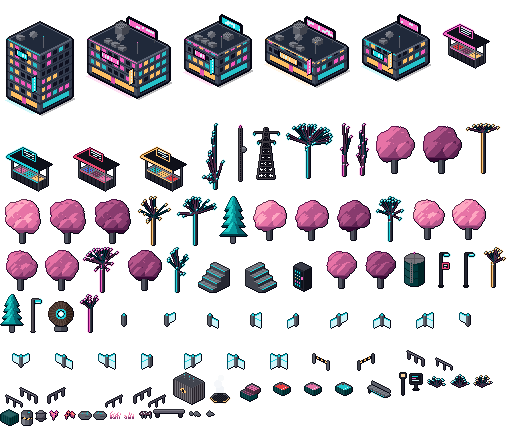
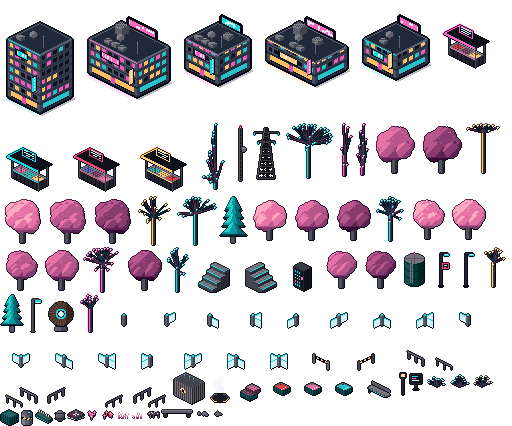
Neon city: connector chips for rocks, in colour (pick); the theme is complete
Parity: cottage ground 0 x 4, shadows 0, landmarks 0; Neon city props match except the chimney smoke,
which the browser animates separately.

Changed region(s): [[0.0625, 0.946, 0.4375, 1.0]]

diff --git a/art/cyber_props.py b/art/cyber_props.py
@@ -449,25 +449,42 @@ def scrap(seed):
     return tight(s).outline()
 
 
-def connector(seed):
-    """Rocks as connector chips: rock-1 a pin header (a black block, a row of gold pins standing up), rock-2 a small
-    chip (a black square, silver legs, a pin-one dot)."""
+CONNECTOR_LOOKS = {   # housing (lit, dark, top), pins (lit, shade), chip (side, top, print), accent
+    "dark": (("vh1", "vh2", "vh0"), ("cb0", "cb1"), ("vh1", "vh0", "s1"), "fl_w"),
+    "colour": (("b1", "b2", "b0"), ("fl_y", "cb1"), ("r2", "r1", "fl_w"), "neon_b"),
+    "neon": (("vh1", "vh2", "vh0"), ("neon_c", "cb1"), ("vh1", "vh0", "neon_b"), "neon_a"),
+    "light": (("c0", "c1", "fl_w"), ("cb0", "cb1"), ("s0", "fl_w", "vh1"), "neon_a"),
+}
+CONNECTOR = "colour"     # picked 2026-10-12
+
+
+def connector(seed, look=None):
+    """Rocks as connector chips: rock-1 a pin header (a block, a row of gold pins standing up), rock-2 a small chip
+    (a square, silver legs, a pin-one dot, printing). look: CONNECTOR_LOOKS key (colours and contrast)."""
     from iso_props import proj
+    (hl, hd, ht), (pl, pd), (cs, ct, cp), accent = CONNECTOR_LOOKS[look or CONNECTOR]
     header = str(seed).endswith("0")
     if header:
         w, d, hgt = 12, 4, 3
-        cv = _small_box(w, d, hgt, lambda *a: "vh1", lambda *a: "vh2", lambda *a: "vh0")
-        for k in range(5):                                            # the pins
+        cv = _small_box(w, d, hgt, lambda s, t, su, tu: accent if tu < 0.7 else hl, lambda *a: hd,
+                        lambda s, t, su, tu: ht if su > 0.6 else hl)
+        for k in range(5):                                            # the pins, a bright tip on each
             x, y = proj(1.5 + k * 2.2, d / 2, hgt)
             for j in range(4):
-                cv.s.put(int(x + cv.ox), int(y + cv.oy - j), "cb0" if j == 3 else "cb1")
+                cv.s.put(int(x + cv.ox), int(y + cv.oy - j), "fl_w" if j == 3 else pl if j == 2 else pd)
         return _crop(cv)
     w = d = 8
-    cv = _small_box(w, d, 2, lambda *a: "vh1", lambda *a: "vh2",
-                    lambda s, t, su, tu: "fl_w" if (su - 1.6) ** 2 + (tu - 1.6) ** 2 < 0.7 else "vh0")
-    for k in range(3):                                                # legs on the two front sides
-        cv.face((1.5 + k * 2.5, d, 0), (0.9, 0, 0), (0, 1.6, 0), lambda *a: "s0")
-        cv.face((w, 1.5 + k * 2.5, 0), (1.6, 0, 0), (0, 0.9, 0), lambda *a: "s1")
+
+    def top(s, t, su, tu):
+        if (su - 1.6) ** 2 + (tu - 1.6) ** 2 < 0.8:
+            return accent                                             # pin-one dot
+        if 3 < tu < 3.8 and 2 < su < 7 or 5 < tu < 5.8 and 2 < su < 5.5:
+            return cp                                                 # printing
+        return ct
+    cv = _small_box(w, d, 2, lambda *a: cs, lambda *a: hd, top)
+    for k in range(3):                                                # bright legs on the two front sides
+        cv.face((1.5 + k * 2.5, d, 0), (0.9, 0, 0), (0, 1.6, 0), lambda *a: "fl_w")
+        cv.face((w, 1.5 + k * 2.5, 0), (1.6, 0, 0), (0, 0.9, 0), lambda *a: "s0")
     return _crop(cv)
 
 

diff --git a/art/theme_cyber.py b/art/theme_cyber.py
@@ -79,8 +79,8 @@ CYBER = {"plaza": "panels", "canal": "coolant", "walkway": "tiles", "windows": "
          "crops": "neon",
          # nature bits (cyber_props.nature): bushes recolour / fibre / led, rocks recolour / concrete / scrap,
          # details recolour / neon
-         # picked 2026-10-12: fibre tufts, recoloured details; rocks: connector chips under consideration
-         "bushes": "fibre", "rocks": "recolour", "details": "recolour"}
+         # picked 2026-10-12: fibre tufts, connector chips in colour, recoloured details
+         "bushes": "fibre", "rocks": "connector", "details": "recolour"}
 # Trees stay trees in the city (a dense wood reads as a glowing park): CYBER["trees"] for broadleaf kinds and
 # CYBER["pines"] for conifers: neon, holo, biolum (dark crowns, glowing specks), outline (dark, a neon rim),
 # cable (crowns of wire bundles, broadleaf only); "planter": trees standing in lit planter boxes. "tech-<concept>":
